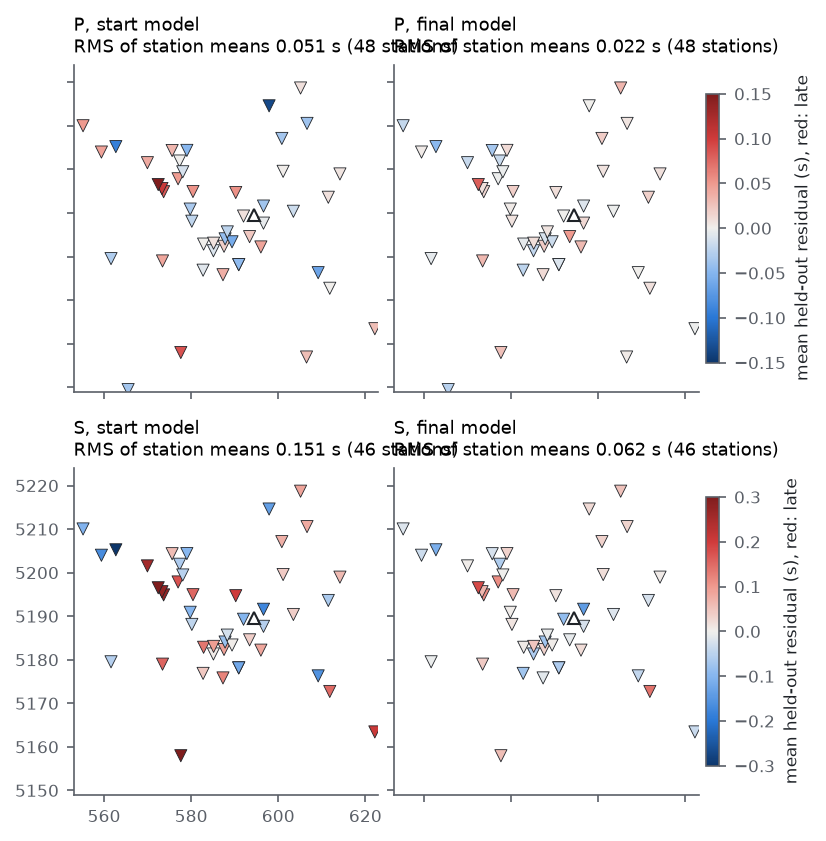
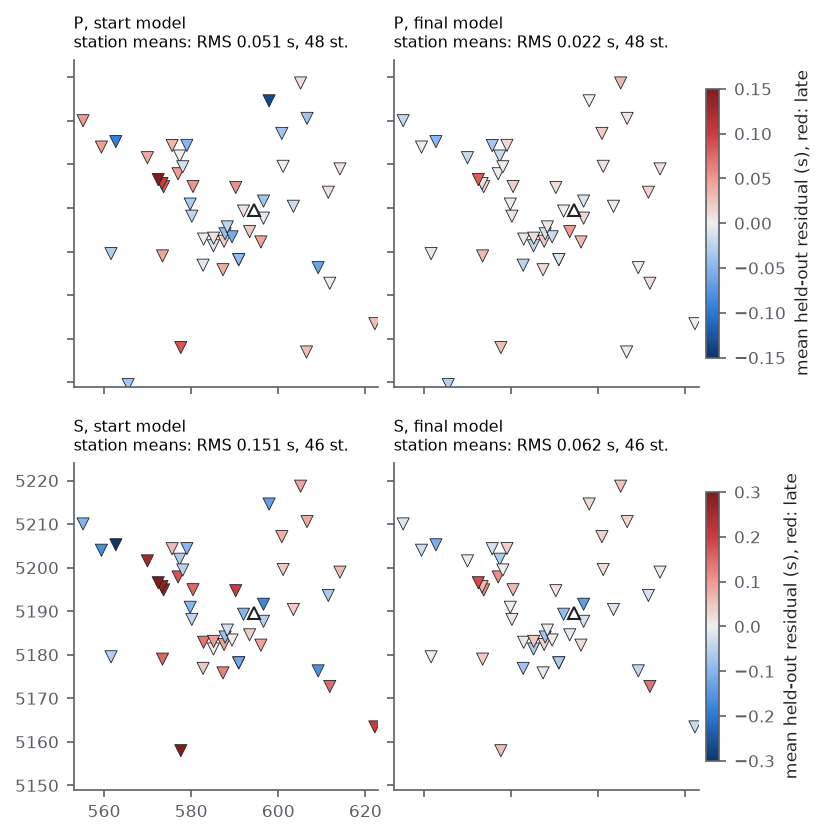
Tomography report: figures wider than the text column, table headers wrap, figure 10 titles shortened
Checked by a full-page headless render at 1280 px under /mt-rainier-digital-model/tomography/.

diff --git a/docs/tomography/index.html b/docs/tomography/index.html
@@ -56,10 +56,10 @@ p { margin: 0 0 14px; }
 .keywords { font-family: var(--sans); font-size: 14px; color: var(--ink-2); margin-top: 10px; }
 .status { background: var(--tint); border-radius: 6px; padding: 14px 16px; font-family: var(--sans); font-size: 14.5px; line-height: 1.55; margin: 22px 0; }
 .status strong { font-weight: 600; }
-figure { margin: 34px auto; max-width: 980px; }
+figure { margin: 34px 0; width: min(980px, calc(100vw - 40px)); position: relative; left: 50%; transform: translateX(-50%); }
 figure .plate { background: var(--plate); border: 1px solid var(--rule); border-radius: 4px; padding: 10px; }
 figure img { display: block; width: 100%; height: auto; }
-figure.narrow { max-width: 760px; }
+figure.narrow { width: min(760px, calc(100vw - 40px)); }
 figcaption { font-family: var(--sans); font-size: 14px; line-height: 1.5; color: var(--ink-2); margin: 10px auto 0; max-width: 80ch; }
 figcaption b { color: var(--ink); font-weight: 600; }
 #rays3d { width: 100%; height: min(640px, 78vw); min-height: 380px; }
@@ -71,7 +71,8 @@ caption { text-align: left; font-size: 14px; color: var(--ink-2); padding-bottom
 caption b { color: var(--ink); font-weight: 600; }
 th, td { padding: 6px 10px; border-bottom: 1px solid var(--rule); text-align: right; font-variant-numeric: tabular-nums; white-space: nowrap; }
 th:first-child, td:first-child { text-align: left; white-space: normal; }
-thead th { font-weight: 600; border-bottom: 1.5px solid var(--ink-2); }
+thead th { font-weight: 600; border-bottom: 1.5px solid var(--ink-2); white-space: normal; vertical-align: bottom; }
+td:first-child { min-width: 9em; }
 .eq { font-family: var(--serif); font-style: italic; text-align: center; margin: 16px 0; overflow-x: auto; }
 .refs p { padding-left: 2em; text-indent: -2em; font-size: 15.5px; }
 a { color: var(--accent); }
@@ -199,7 +200,7 @@ code { font-family: var(--mono); font-size: 0.86em; }
 
 <div class="tablewrap"><table>
 <caption><b>Table 3.</b> Residuals after relocation in the starting and final models (picks with non-zero weight).</caption>
-<thead><tr><th>Set and phase</th><th>RMS start (s)</th><th>RMS final (s)</th><th>Change</th><th>Median |r| start (s)</th><th>Median |r| final (s)</th></tr></thead>
+<thead><tr><th>Set and phase</th><th>RMS, start (s)</th><th>RMS, final (s)</th><th>Change</th><th>Median |r|, start (s)</th><th>Median |r|, final (s)</th></tr></thead>
 <tbody>
 <tr><td>Held out, P</td><td>0.0908</td><td>0.0712</td><td>&minus;22%</td><td>0.0482</td><td>0.0307</td></tr>
 <tr><td>Held out, S</td><td>0.1794</td><td>0.1167</td><td>&minus;35%</td><td>0.1083</td><td>0.0592</td></tr>

diff --git a/scripts/37_tomography_figures.py b/scripts/37_tomography_figures.py
@@ -398,7 +398,7 @@ def fig_station_terms(out, p0, p1, ctx):
             frame(a, ctx, ticks=(c == 0 and r == 1))
             rms = np.sqrt(np.mean(g["mean"] ** 2))
             a.set_title(
-                f"{ph}, {tag} model\nRMS of station means {rms:.3f} s ({len(g)} stations)", loc="left"
+                f"{ph}, {tag} model\nstation means: RMS {rms:.3f} s, {len(g)} st.", loc="left", fontsize=7.5
             )
         fig.colorbar(
             im, ax=ax[r, :].tolist(), shrink=0.8, pad=0.01, label="mean held-out residual (s), red: late"
